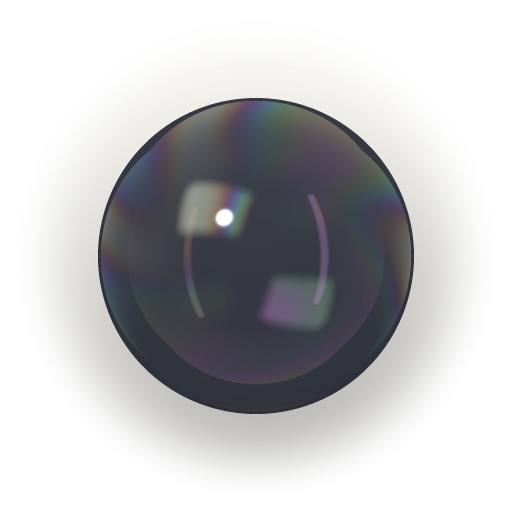
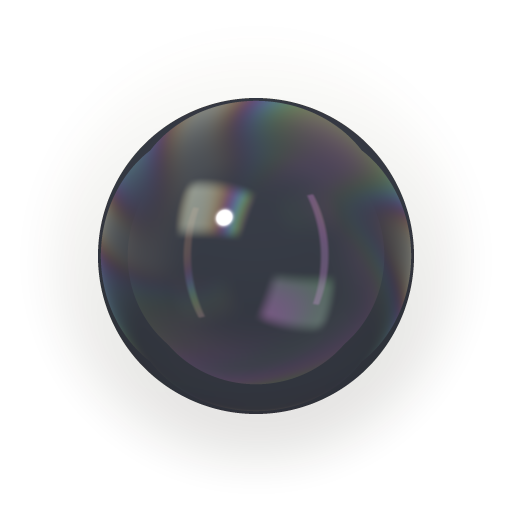
The mark carries 40 percent of the tile's shadow and glow
The tile's own read as too dark alone on a page, the owner's call; the bars keep none.

Changed region(s): [[0.1562, 0.4375, 0.875, 0.9062]]

diff --git a/src/lib/orb-glass.ts b/src/lib/orb-glass.ts
@@ -55,6 +55,9 @@ export type OrbGlassMaterial =
     | "scene19"
     | "scene20";
 
+/** How much of the tile's shadow and glow the mark carries: the tile's own read as too dark alone on a page. */
+export const ORB_MARK_SHADOW = 0.4;
+
 /** A scene material draws the whole tile (face, shadow, ball) rather than a bare ball; the tile round it is then nothing but a hairline. */
 export const orbGlassIsScene = (material: OrbGlassMaterial): boolean => orbGlassFamily(material) === "scene";
 
@@ -195,7 +198,7 @@ vec4 darkBubble(vec3 refl, vec3 back, vec3 wash, vec3 n, float x, float kdif, fl
 // the still), with the film flowing in time and the lights following the pointer.
 // ---------------------------------------------------------------------------------------------
 uniform float uScene;    // 1 draws the tile scene instead of the bare ball; 2 the mark: the tile with its face left out
-uniform float uShadow;   // for the mark: 1 carries the tile's shadow and glow, 0 leaves them out (the logo in the bars)
+uniform float uShadow;   // for the mark: how much of the tile's shadow and glow it carries; 0 in the bars
 
 const float SCENE_SPAN = 1.62;   // half-width of the view in the ball's radii: the ball is 62 percent of the tile
 const float SCENE_BD = 1.4;      // the face sits this far behind the ball's centre

diff --git a/src/components/app/orb-glass.tsx b/src/components/app/orb-glass.tsx
@@ -8,6 +8,7 @@ import {
     ORB_GLASS_FRAGMENT,
     ORB_GLASS_MATERIAL_INDEX,
     ORB_GLASS_VERTEX,
+    ORB_MARK_SHADOW,
     type OrbGlassMaterial,
     orbGlassFamily,
     orbGlassIsScene,
@@ -194,7 +195,9 @@ class Studio {
         gl.uniform1f(u.uFill, ORB_GLASS_FILL);
         gl.uniform1f(u.uDark, dark ? 1 : 0);
         gl.uniform1f(u.uScene, orbGlassIsScene(it.material) ? (it.mark ? 2 : 1) : 0);
-        gl.uniform1f(u.uShadow, it.shadow ? 1 : 0);
+        // The mark carries 40 percent of the tile's shadow and glow: the tile's own read as too dark
+        // alone on a page (the owner's call, 2026-09-30).
+        gl.uniform1f(u.uShadow, it.shadow ? ORB_MARK_SHADOW : 0);
         gl.drawArrays(gl.TRIANGLES, 0, 3);
         it.context.imageSmoothingQuality = "high";
         it.context.clearRect(0, 0, px, px);
